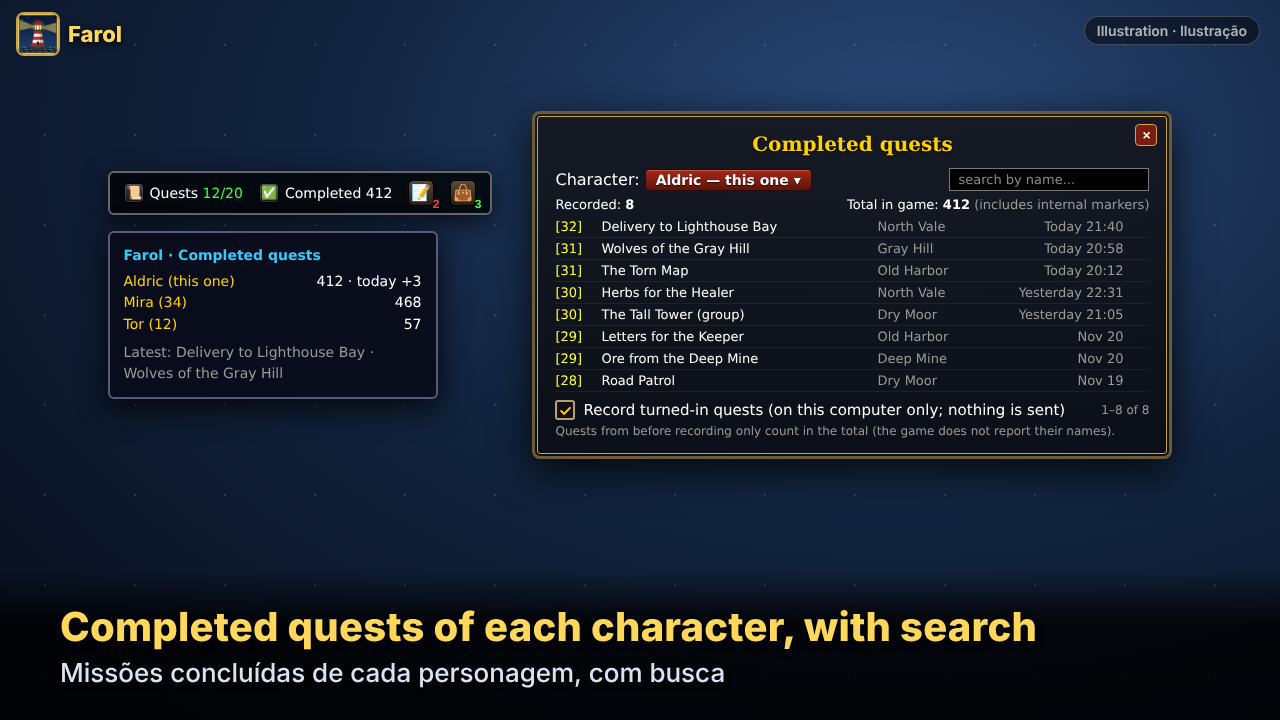
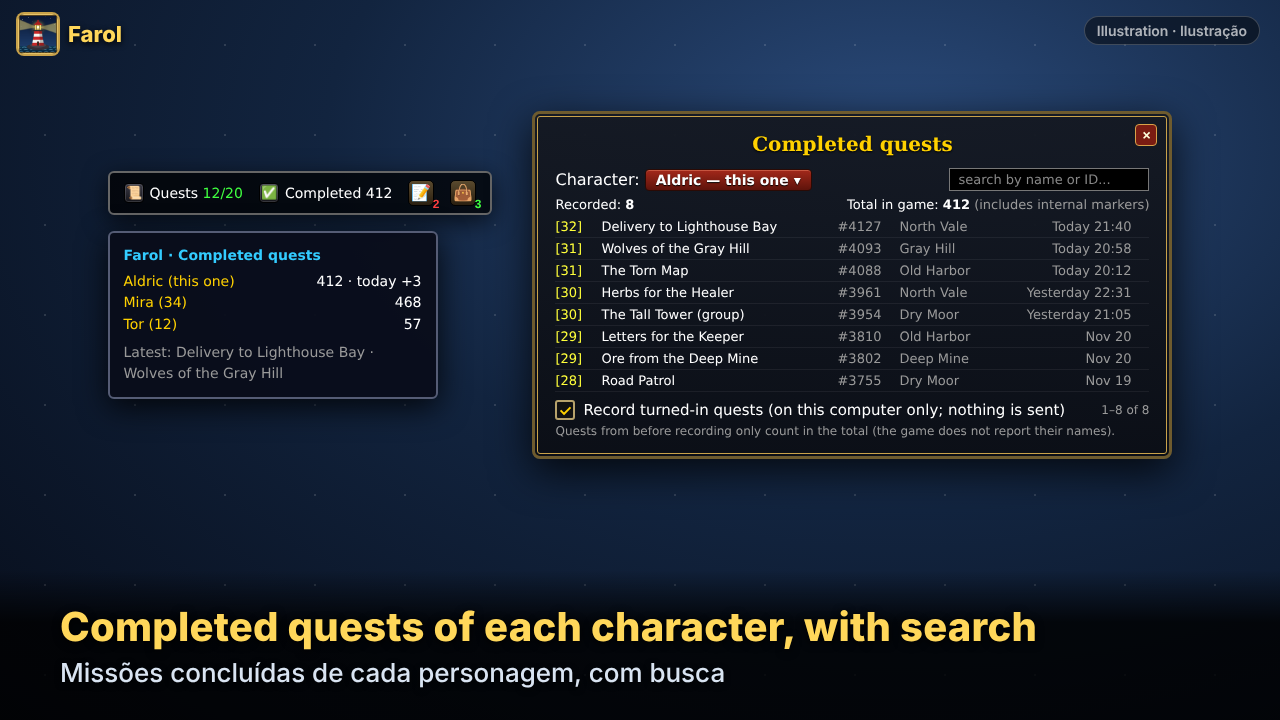
3.14.0: show the game's quest ID in the completed quests window
- New ID column (#4127) in the Completed quests window; search by name or ID ("4127" or "#4127")
- Tests, README PT/EN, CurseForge description, CHANGELOG and image 12 updated

Claude-Session: https://claude.ai/code/session_01BGNd8jLBZJw5iNs8DwdX47

Changed region(s): [[0.6562, 0.3056, 0.75, 0.55], [0.7812, 0.3056, 0.875, 0.55]]

diff --git a/assets/curseforge/make_pages.py b/assets/curseforge/make_pages.py
@@ -323,14 +323,14 @@ RUN_CSS = """.rrow{display:grid;grid-template-columns:82px 140px 54px 56px 76px 
 page("farol-11-dungeon-raid-runs", f'<div style="display:flex;flex-direction:column;gap:14px;align-items:center;transform:scale(.92)">{RUN_BAR}{run_summary}{run_win}</div>',
      "Dungeon & raid log: time, XP, gold, loot, deaths", "Registro de masmorras e raides: tempo, XP, ouro, saques e mortes", RUN_CSS)
 # 12. Completed quests of each character
-QD = [("32","Delivery to Lighthouse Bay","North Vale","Today 21:40"),("31","Wolves of the Gray Hill","Gray Hill","Today 20:58"),
-      ("31","The Torn Map","Old Harbor","Today 20:12"),("30","Herbs for the Healer","North Vale","Yesterday 22:31"),
-      ("30","The Tall Tower (group)","Dry Moor","Yesterday 21:05"),("29","Letters for the Keeper","Old Harbor","Nov 20"),
-      ("29","Ore from the Deep Mine","Deep Mine","Nov 20"),("28","Road Patrol","Dry Moor","Nov 19")]
-qrows = "".join(f'<div class="qrow"><span class="y">[{l}]</span><span>{n}</span><span class="dim">{z}</span><span class="dim" style="text-align:right">{d}</span></div>' for l, n, z, d in QD)
+QD = [("32","Delivery to Lighthouse Bay","#4127","North Vale","Today 21:40"),("31","Wolves of the Gray Hill","#4093","Gray Hill","Today 20:58"),
+      ("31","The Torn Map","#4088","Old Harbor","Today 20:12"),("30","Herbs for the Healer","#3961","North Vale","Yesterday 22:31"),
+      ("30","The Tall Tower (group)","#3954","Dry Moor","Yesterday 21:05"),("29","Letters for the Keeper","#3810","Old Harbor","Nov 20"),
+      ("29","Ore from the Deep Mine","#3802","Deep Mine","Nov 20"),("28","Road Patrol","#3755","Dry Moor","Nov 19")]
+qrows = "".join(f'<div class="qrow"><span class="y">[{l}]</span><span>{n}</span><span class="dim">{i}</span><span class="dim">{z}</span><span class="dim" style="text-align:right">{d}</span></div>' for l, n, i, z, d in QD)
 qwin = ('<div class="win" style="width:640px"><div class="x">×</div><div class="t">Completed quests</div>'
     '<div style="display:flex;justify-content:space-between;align-items:center;margin-bottom:6px"><span>Character: <span class="btn" style="padding:2px 10px;color:#fff">Aldric — this one ▾</span></span>'
-    '<span style="background:#000;border:1px solid #777;padding:3px 8px;width:200px;color:#888;font-size:13px">search by name...</span></div>'
+    '<span style="background:#000;border:1px solid #777;padding:3px 8px;width:200px;color:#888;font-size:13px">search by name or ID...</span></div>'
     '<div style="display:flex;justify-content:space-between;font-size:13px;margin-bottom:4px"><span>Recorded: <b>8</b></span><span>Total in game: <b>412</b> <span class="dim">(includes internal markers)</span></span></div>'
     + qrows +
     '<div style="display:flex;justify-content:space-between;align-items:center;margin-top:8px"><span class="ck" style="margin:0"><span class="box">✓</span>Record turned-in quests (on this computer only; nothing is sent)</span><span class="dim" style="font-size:12px">1–8 of 8</span></div>'
@@ -341,7 +341,7 @@ qtip = ('<div class="tip" style="width:330px"><div style="color:#33ccff;font-wei
     '<div class="row"><span class="k">Mira (34)</span><span>468</span></div>'
     '<div class="row"><span class="k">Tor (12)</span><span>57</span></div>'
     '<div class="dim" style="margin-top:6px">Latest: Delivery to Lighthouse Bay · Wolves of the Gray Hill</div></div>')
-QD_CSS = """.qrow{display:grid;grid-template-columns:40px 270px 130px 110px;gap:6px;font-size:13px;padding:3px 0;border-bottom:1px solid #ffffff10}"""
+QD_CSS = """.qrow{display:grid;grid-template-columns:40px 230px 56px 120px 106px;gap:6px;font-size:13px;padding:3px 0;border-bottom:1px solid #ffffff10}"""
 page("farol-12-completed-quests", f'<div style="display:flex;flex-direction:column;gap:16px;align-items:flex-start">{QD_BAR}{qtip}</div>{qwin}',
      "Completed quests of each character, with search", "Missões concluídas de cada personagem, com busca", QD_CSS)
 print("pages ok")

diff --git a/assets/curseforge-description.md b/assets/curseforge-description.md
@@ -19,7 +19,7 @@ FPS · Latency · Memory · Coordinates · Zone · Speed · **Hearthstone: where
 - **Right-click** the bar (or `/farol menu`): a **tabbed menu** — Bar (items in groups), Warnings, Tools, General — to tick the items you want, and **choose their order** with [▲]/[▼] arrows. **Presets** (Basic, Leveling, Gold & farm, Dungeons) set up the bar in one click (with Undo); a **gear** next to an item opens its settings; a strip explains the item under the mouse.
 - **Up to 3 bars**, each with its own items, position, appearance and order (menu → Bar 2 / Bar 3 → Show).
 - **Profiles:** the same bars on every character, or **this character only** — and **Copy from...** another character.
-- **Completed quests of each character:** a searchable list of the quests each of your characters turned in (recording starts off) and the total the game reports; stays on your computer.
+- **Completed quests of each character:** a list of the quests each of your characters turned in, with their quest IDs and a search by name or ID (recording starts off) and the total the game reports; stays on your computer.
 - **Daily & weekly tasks:** your own checklist (`/farol task`) that resets on its own at the daily/weekly reset (removed one by mistake? Undo).
 - **Minimap button:** click for the menu, right-click to hide/show every bar at once (no other addon needed).
 - **Hover** an item for its own short tooltip (gold, durability, resets…); hold **Shift** to see everything: home/world latency, subzone, every damaged item, exact XP, local *and* server time, and more.
@@ -77,7 +77,7 @@ FPS · Latência · Memória · Coordenadas · Zona · Velocidade · **Pedra de 
 - **Clique direito** na barra (ou `/farol menu`): um **menu em abas** — Barra (itens em grupos), Avisos, Ferramentas, Geral — para marcar os itens que quiser e **escolher a ordem** com as setas [▲]/[▼]. **Pacotes prontos** (Básico, Upando, Ouro e farm, Masmorras) montam a barra com um clique (com Desfazer); a **engrenagem** ao lado de um item abre a configuração dele; uma faixa explica o item sob o mouse.
 - **Até 3 barras**, cada uma com itens, posição, aparência e ordem próprios (menu → Barra 2 / Barra 3 → Mostrar).
 - **Perfis:** as mesmas barras em todos os personagens, ou **só deste personagem** — e **Copiar de...** outro personagem.
-- **Missões concluídas de cada personagem:** lista com busca das missões que cada personagem seu entregou (o registro vem desligado) e o total que o jogo informa; fica só no seu computador.
+- **Missões concluídas de cada personagem:** lista das missões que cada personagem seu entregou, com o ID de cada uma e busca pelo nome ou ID (o registro vem desligado) e o total que o jogo informa; fica só no seu computador.
 - **Tarefas diárias e semanais:** sua lista (`/farol tarefa`) que zera sozinha no reset diário/semanal (apagou sem querer? Desfazer).
 - **Botão no minimapa:** clique para o menu, clique direito para esconder/mostrar todas as barras (não precisa de outro addon).
 - **Passe o mouse** num item para ver um tooltip curto só dele (ouro, durabilidade, resets…); segure **Shift** para ver tudo: latência local/mundo, subzona, cada peça danificada, XP exato, hora local *e* do servidor, e mais.

diff --git a/README.pt-BR.md b/README.pt-BR.md
@@ -336,8 +336,9 @@ compartilha missões, e não abre categorias fechadas do diário. `/farol aviso 
 ## Missões concluídas
 
 A janela **Missões concluídas** (Menu > Ferramentas, ou `/farol concluidas`) mostra as missões que cada um dos **seus**
-personagens entregou: `[32] Entrega na Baía do Farol — Vale Norte — Hoje 21:40`, da mais nova para a mais antiga, com
-**busca pelo nome** e rolagem com a roda do mouse. No alto, escolha o personagem (só os seus, do mesmo reino).
+personagens entregou: `[32] Entrega na Baía do Farol — #4127 — Vale Norte — Hoje 21:40`, da mais nova para a mais
+antiga, com **busca pelo nome ou pelo ID** e rolagem com a roda do mouse. O **ID** (`#4127`) é o número único que o jogo
+dá a cada missão, útil para procurar a missão em guias e sites. No alto, escolha o personagem (só os seus, do mesmo reino).
 
 - **O registro vem desligado.** Marque **"Registrar missões entregues"** na janela (ou `/farol concluidas registrar on`)
   e, a partir daí, cada missão entregue é guardada com nome, nível, zona e data (até 2.000 por personagem, as mais

diff --git a/README.md b/README.md
@@ -331,8 +331,9 @@ abandons or shares quests, and never opens collapsed categories. `/farol warn st
 ## Completed quests
 
 The **Completed quests** window (Menu > Tools, or `/farol completed`) shows the quests each of **your** characters has
-turned in: `[32] Delivery to Lighthouse Bay — North Vale — Today 21:40`, newest first, with a **name search** and mouse
-wheel scrolling. At the top, pick the character (only yours, on the same realm).
+turned in: `[32] Delivery to Lighthouse Bay — #4127 — North Vale — Today 21:40`, newest first, with a **search by name
+or ID** and mouse wheel scrolling. The **ID** (`#4127`) is the unique number the game gives each quest, handy to look the
+quest up in guides and websites. At the top, pick the character (only yours, on the same realm).
 
 - **Recording starts off.** Tick **"Record turned-in quests"** in the window (or `/farol completed record on`) and from
   then on each quest you turn in is saved with name, level, zone and date (up to 2,000 per character, the most recent).

diff --git a/CHANGELOG.md b/CHANGELOG.md
@@ -4,7 +4,8 @@ All notable changes to Farol. Versions follow the `## Version:` line of the `.to
 
 ## 3.14.0 — Completed quests
 - New **Completed quests** window (Menu > Tools, `/farol completed`): the quests each of your characters turned in, with
-  name, level, zone and date, newest first, a name search and a character menu (your own characters only).
+  name, level, the game's unique **quest ID**, zone and date, newest first, a search by name or ID and a character
+  menu (your own characters only).
 - **Recording starts off** (rule 8): tick "Record turned-in quests" in the window or `/farol completed record on`.
   Up to 2,000 quests per character; validated on load; "Forget characters" also deletes the lists.
 - **Total in game** for each character (`C_QuestLog.GetAllCompletedQuestIDs` or `GetQuestsCompleted`), including quests
